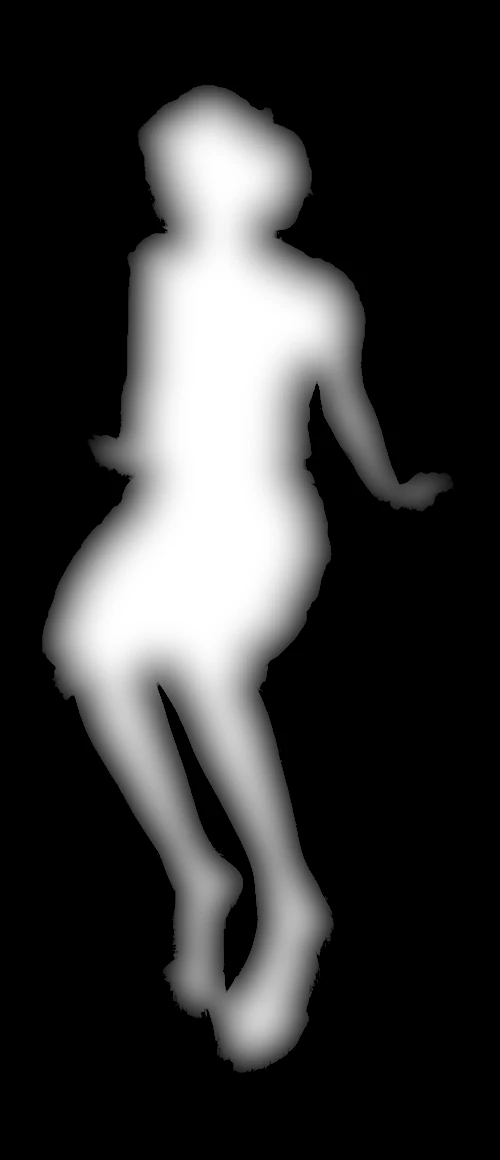
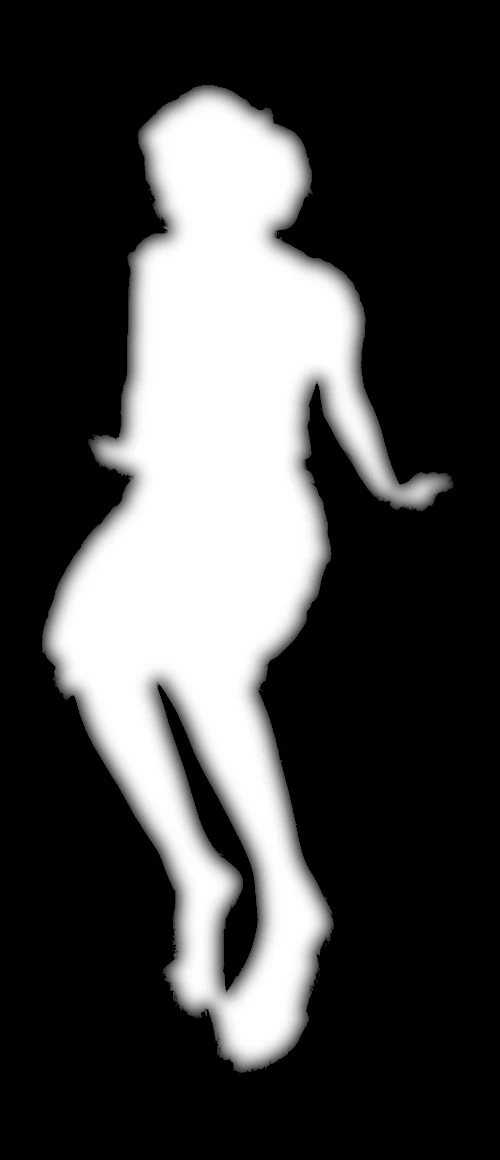
fix: the figurine is a level slab in its photo's own light
The photo's own sunlight and shadows already make the owner look solid.
The deep dome sank the face that lay near the head's outline, and the
half relighting streaked the smooth legs. The self-shadow blotted them,
and on a level top the gloss was only a grey veil.

- The figurine is now a 15-unit slab with a level top and an edge rounded
  over 4 units. It was a 30-unit dome. A thicker slab shows its side,
  stretched, and casts a heavy shadow.
- It keeps the photo's own colours: no warm tint and no grain.
- It is not relit, not shadowed on itself and not glossy. It still casts
  its shadow on the box, and its clear bag is kept, glints and all.
- FIGURINE.height follows the slab, so food rests on its real top. No
  cloth in the pile lies over the figurine, so the pile is unchanged.

Changed region(s): [[0.09, 0.0621, 0.9, 0.931]]

diff --git a/js/rigid/render.js b/js/rigid/render.js
@@ -19,15 +19,16 @@ import { heightfieldMesh, modelMatrix } from './heightfield.js';
 import { CLEARANCE } from './load.js';
 
 const ATTRIBUTES = ['aPos', 'aNormal', 'aUv'];
-// Each surface's finish: its gloss, and how far the scene's light reshapes its picture (`relight`: 0 the
-// picture's own light alone, 1 the scene's full shading). The figurine is the owner's photo, its sunlight
-// already in it: lit fully over again, its skin goes dark and greasy at the edges. Shaded halfway, its
-// smooth dome still rounds the arms and legs like a doll's (the owner's pick, 2026-11-11). Shadows cast
-// on it still fall on it.
+// Each surface's finish: its gloss, how far the scene's light reshapes its picture (`relight`: 0 the
+// picture's own light alone, 1 the scene's full shading) and whether the scene's shadows fall on it
+// (`shadowed`). The figurine is the owner's photo, a level slab: its sunlight and shadows are what make it
+// look solid, and the scene's light over them only dulls and streaks it, its own shadow only blots it, and
+// on its level top a gloss is no highlight, only a veil that greys the whole photo (the owner's pick,
+// 2026-11-12). It still casts its shadow on the box, and its bag still glints.
 const FINISH = {
-  figurine: { sheen: 0.08, power: 20, relight: 0.5 },
-  food: { sheen: 0.12, power: 24, relight: 1 },
-  wrap: { sheen: 0.9, power: 80, relight: 1 },
+  figurine: { sheen: 0, power: 20, relight: 0, shadowed: false },
+  food: { sheen: 0.12, power: 24, relight: 1, shadowed: true },
+  wrap: { sheen: 0.9, power: 80, relight: 1, shadowed: true },
 };
 const PX = 4; // pixels a unit in the bodies' pictures
 const DETAIL = 0.2; // share of the relief map's slope added on top of the heightfield's own shading
@@ -90,9 +91,11 @@ out vec4 outColor;
 ${RELIEF_NORMAL}`;
 
 // A painted solid: shading as far as uRelight lets the scene's light reshape the picture (the rest is
-// the even shade of a flat top), a gloss that follows the light, a crisp cut-out edge.
+// the even shade of a flat top), the scene's shadows where uShadowed lets them fall, a gloss that follows
+// the light, a crisp cut-out edge.
 const SOLID_FS = `${SURFACE_HEAD}
 uniform float uRelight;
+uniform float uShadowed;
 void main() {
   vec4 tex = texture(uTex, vUv); // premultiplied on upload
   float alpha = clamp((tex.a - 0.5) / max(fwidth(tex.a), 1e-4) + 0.5, 0.0, 1.0);
@@ -100,7 +103,7 @@ void main() {
   vec3 base = tex.rgb / max(tex.a, 1e-3);
   vec3 n = relief(normalize(vNormal));
   vec3 toEye = normalize(uEye - vPos);
-  float sun = sunlit(vShadow);
+  float sun = mix(1.0, sunlit(vShadow), uShadowed);
   float even = max(0.0, uLightDir.z) * 0.7 + 0.35; // a flat top's shade ('flat' is a GLSL keyword)
   float shade = mix(even, max(0.0, dot(n, uLightDir)) * 0.7 + 0.35, uRelight);
   float gloss = pow(max(0.0, dot(n, normalize(uLightDir + toEye))), uPower) * uSheen * sun;
@@ -165,7 +168,7 @@ void main() {
 
 /** A heightfield's buffers and its pictures on the GPU. */
 function createSurface(gl, {
-  mesh, image, relief, reliefTexel, sheen, power, relight, bump,
+  mesh, image, relief, reliefTexel, sheen, power, relight, shadowed, bump,
 }, anisotropy) {
   const vao = gl.createVertexArray();
   gl.bindVertexArray(vao);
@@ -184,6 +187,7 @@ function createSurface(gl, {
     sheen,
     power,
     relight,
+    shadowed,
     bump,
   };
 }
@@ -224,7 +228,7 @@ export function partsFor({ defs, images, reliefs, wraps, samplers }, resize) {
 
 /**
  * @param gl     the clothes layer's WebGL2 context
- * @param parts  partsFor(): each body's {mesh, footprint, image, relief, reliefTexel, bump, sheen, power, relight, wrap?}
+ * @param parts  partsFor(): each body's {mesh, footprint, image, relief, reliefTexel, bump, sheen, power, relight, shadowed, wrap?}
  */
 export function createRigidRenderer(gl, { parts }) {
   const anisotropy = gl.getExtension('EXT_texture_filter_anisotropic');
@@ -322,6 +326,7 @@ export function createRigidRenderer(gl, { parts }) {
       gl.uniform1f(uniforms.uSheen, surface.sheen);
       gl.uniform1f(uniforms.uPower, surface.power);
       if (uniforms.uRelight) gl.uniform1f(uniforms.uRelight, surface.relight); // the solids' shader only
+      if (uniforms.uShadowed) gl.uniform1f(uniforms.uShadowed, surface.shadowed ? 1 : 0);
       gl.uniform1f(uniforms.uBump, surface.bump);
       gl.uniform2fv(uniforms.uReliefTexel, surface.reliefTexel);
       gl.activeTexture(gl.TEXTURE2);

diff --git a/tests/unit/rigid-render.test.js b/tests/unit/rigid-render.test.js
@@ -17,10 +17,12 @@ function parts() {
   }, (image) => image);
 }
 
-test("the figurine is shaded halfway: rounder than its photo alone, not lit over again like the food", () => {
+test("the figurine shows its photo's own light: not lit over again, nor shadowed on itself, unlike the food", () => {
   const [figurine, food] = parts();
-  assert.ok(figurine.relight >= 0.4 && figurine.relight <= 0.6, `the scene relights the figurine's photo ${figurine.relight}`);
-  assert.ok(figurine.sheen < food.sheen, 'matte: less gloss than the food');
+  assert.equal(figurine.relight, 0, "the photo's sunlight is its shading");
+  assert.equal(figurine.shadowed, false, 'the photo already has its shadows');
   assert.equal(food.relight, 1);
+  assert.equal(food.shadowed, true);
+  assert.equal(figurine.sheen, 0, 'on its level top a gloss is no highlight, only a veil over the whole photo');
   assert.equal(figurine.wrap.sheen > figurine.sheen, true, 'its clear bag still glints');
 });

diff --git a/tests/unit/rigid-heightfield.test.js b/tests/unit/rigid-heightfield.test.js
@@ -48,7 +48,7 @@ test('a point on the picture is found on the body\'s top, where picking would hi
   const body = withPosition({ ...createBody(FIGURINE), rotate: 90 }, [100, 150, 6]);
   const relief = (u, v) => (u > 0.5 ? 1 : 0.5);
   const top = surfacePoint(body, relief, [0.75, 0.25]);
-  assert.deepEqual(top.map((c) => Math.round(c * 1000) / 1000), [172.5, 181.25, 36]);
+  assert.deepEqual(top.map((c) => Math.round(c * 1000) / 1000), [172.5, 181.25, 6 + FIGURINE.height]);
   const hit = pickBody({ origin: [top[0], top[1], 500], dir: [0, 0, -1] }, body, { alpha: () => 1, relief });
   assert.ok(Math.abs(hit.point[2] - top[2]) < 0.5 && Math.abs(hit.uv[0] - 0.75) < 1e-6 && Math.abs(hit.uv[1] - 0.25) < 1e-6);
 });

diff --git a/js/scene/geometry.js b/js/scene/geometry.js
@@ -43,7 +43,7 @@ export const BOOKS = Object.freeze([
  * round things; `keepIn` keeps a body inside the walls when it is dragged.
  */
 export const FIGURINE = Object.freeze({
-  id: 'figurine', label: 'figurine', footprint: [125, 290], height: 30, start: [68.5, 150], rotate: 0, inset: 0.04, keepIn: true,
+  id: 'figurine', label: 'figurine', footprint: [125, 290], height: 15, start: [68.5, 150], rotate: 0, inset: 0.04, keepIn: true,
 });
 export const FOOD = Object.freeze([
   Object.freeze({ id: 'sushi', label: 'sushi', footprint: [52, 68], height: 12, start: [170, 56], rotate: 0, inset: 0, keepIn: false }),

diff --git a/tests/unit/rigid-assets.test.js b/tests/unit/rigid-assets.test.js
@@ -20,7 +20,7 @@ test("the figurine's pictures are its footprint at 4 px a unit", async () => {
   for (const name of ['figurine', 'figurine-relief', 'wrap', 'wrap-relief']) {
     assert.deepEqual(webpSize(await readFile(new URL(`../../assets/figurine/${name}.webp`, import.meta.url))), FIGURINE.footprint.map((u) => u * 4));
   }
-  assert.equal(FIGURINE.height, 30, 'prepare_figurine.HEIGHT');
+  assert.equal(FIGURINE.height, 15, 'prepare_figurine.HEIGHT');
 });
 
 test('the figurine and food pictures together stay within their budget', async () => {

diff --git a/tests/e2e/solids.spec.js b/tests/e2e/solids.spec.js
@@ -18,7 +18,7 @@ test('the figurine and every food item are drawn and can be picked up', async ({
   }
 });
 
-test("the figurine is drawn mostly in its photo's own light: shaded halfway, matte, not lit over again", async ({ page }) => {
+test("the figurine is drawn in its photo's own light: not shaded over again, nor glossy", async ({ page }) => {
   await openSite(page, '?jump=overhead');
   await waitForState(page, 'overhead');
   await waitForSettled(page);

diff --git a/tools/prepare_figurine.py b/tools/prepare_figurine.py
@@ -7,9 +7,10 @@ u2net model's outline when it is given); on a busy one, such as a photo of the o
 grass, the model's outline pulled onto the photo's own edges, which take the subject's
 own colour. Phone photos are turned the right way up first. Stand its long side upright, size it to
 the figure the clothes were fitted to (FIGURE_LENGTH from head to sole) or
-smaller if the bag's margins need it, match it to the box's light, add the
-scene's grain and centre it on the figurine's footprint at PX pixels a unit.
-Then wrap it: a crinkled clear bag with crimped seals lying over it.
+smaller if the bag's margins need it and centre it on the figurine's footprint
+at PX pixels a unit, in the photo's own colours: its sunlight and shadows are
+what make it look solid. Raise it into a slab with a level top and a rounded
+edge, then wrap it: a crinkled clear bag with crimped seals lying over it.
 
 Writes figurine.webp, figurine-relief.webp (the WebGL heightfield's height,
 255 = HEIGHT), wrap.webp and wrap-relief.webp (255 = HEIGHT + CLEARANCE),
@@ -38,21 +39,19 @@ from solids.cutout import (  # noqa: E402
     unmix,
     without_specks,
 )
-from solids.finish import add_grain, fit_canvas, match_light  # noqa: E402
+from solids.finish import fit_canvas  # noqa: E402
 from solids.relief import relief  # noqa: E402
 from solids.wrap import bag  # noqa: E402
 
-ROOT = Path(__file__).resolve().parent.parent
-GRAIN = ROOT / "assets" / "textures" / "grain.png"
 SIZE = (125, 290)  # units: FIGURINE.footprint in js/scene/geometry.js
 PX = 4  # pixels a parcel unit
-HEIGHT = 30  # units: FIGURINE.height
+HEIGHT = 15  # units: FIGURINE.height (thicker, the slab's side shows, stretched, and its shadow is heavy)
 CLEARANCE = 2  # units the bag lies over the figure
 FIGURE_LENGTH = 248  # units from head to sole, as clothes/fit.py measures the figure
 MARGIN = (8, 16)  # units between the figure and the bag's sides, and its ends (with the seals)
-RELIEF_RADIUS = 12  # units: the figure's dome reaches full height this far in
-RELIEF_DETAIL = 0.0  # a smooth dome: a photo's own texture (skin, grass blades) would shade as grooves
-RELIEF_SMOOTH = 3  # units: the dome rounded so an arm or a leg is round, not ridged down its middle
+RELIEF_RADIUS = 4  # units: the edge rounds up to the level top this far in (a deeper dome sinks a face near the outline)
+RELIEF_DETAIL = 0.0  # a smooth top: a photo's own texture (skin, grass blades) would shade as grooves
+RELIEF_SMOOTH = 1.5  # units: the edge's rounding softened, so it is no ridge or crease
 PLAIN = 12.0  # a border whose colour varies more than this (std) is not plain: use u2net
 SHADES = (0.3, 1.1)  # the backdrop's grey from its contact shadows (this share of it) to where its light is brightest
 TOLERANCE = 14.0  # colour distance from those shades still counted as backdrop (a generated backdrop keeps within ~7)
@@ -155,7 +154,7 @@ def place(cut: np.ndarray) -> np.ndarray:
 
 
 def figure_level(alpha: np.ndarray, rgb: np.ndarray) -> np.ndarray:
-    """The figure's height map (uint8, 255 = HEIGHT): a smooth, rounded dome inflated from its outline."""
+    """The figure's height map (uint8, 255 = HEIGHT): a slab with a level top, its edge rounded over RELIEF_RADIUS."""
     return relief(alpha, rgb, radius_px=RELIEF_RADIUS * PX, detail=RELIEF_DETAIL, smooth_px=RELIEF_SMOOTH * PX)
 
 
@@ -171,14 +170,10 @@ def main(argv: list[str] | None = None) -> int:
     args.out.mkdir(parents=True, exist_ok=True)
 
     figure = place(cut_out(args.chosen, args.u2net, args.turn))
-    a = figure[..., 3] / 255
-    grain = np.asarray(Image.open(GRAIN).convert("RGBA"), float)
-    finished = add_grain(match_light(figure[..., :3], a), a, grain)
-    level = figure_level(a, finished)
+    level = figure_level(figure[..., 3] / 255, figure[..., :3])
     film, film_level = bag(figure.shape[1::-1], figure[..., 3], level, px=PX, figure_height=HEIGHT, clearance=CLEARANCE)
 
-    picture = np.concatenate([finished, figure[..., 3:4]], axis=-1)
-    Image.fromarray(np.round(picture).astype(np.uint8), "RGBA").save(args.out / "figurine.webp", "WEBP", quality=88, alpha_quality=100, method=6)
+    Image.fromarray(figure, "RGBA").save(args.out / "figurine.webp", "WEBP", quality=88, alpha_quality=100, method=6)
     Image.fromarray(level, "L").save(args.out / "figurine-relief.webp", "WEBP", quality=90, method=6)
     Image.fromarray(film, "RGBA").save(args.out / "wrap.webp", "WEBP", quality=88, alpha_quality=100, method=6)
     Image.fromarray(np.round(film_level * 255).astype(np.uint8), "L").save(args.out / "wrap-relief.webp", "WEBP", quality=90, method=6)

diff --git a/tools/tests/test_prepare_figurine.py b/tools/tests/test_prepare_figurine.py
@@ -10,10 +10,13 @@ import prepare_figurine as pf
 RED = (180.0, 40.0, 40.0)
 
 
-def figure_png(tmp_path):
+LILAC = (150.0, 90.0, 200.0)  # much blue: the box's warm tint would take some 14 levels of it
+
+
+def figure_png(tmp_path, colour=(180, 40, 40)):
     yy, xx = np.mgrid[0:400, 0:900]
     inside = ((xx - 450) / 400) ** 2 + ((yy - 200) / 120) ** 2 <= 1
-    rgb = np.where(inside[..., None], (180, 40, 40), (200, 200, 200)).astype(np.uint8)
+    rgb = np.where(inside[..., None], colour, (200, 200, 200)).astype(np.uint8)
     path = tmp_path / "chosen.png"
     Image.fromarray(rgb).save(path)
     return path
@@ -114,7 +117,17 @@ def test_a_large_photo_is_cut_at_a_working_size(tmp_path, monkeypatch):
     assert abs(cut.shape[0] - pf.WORK_LENGTH) <= 0.03 * pf.WORK_LENGTH, f"the figure is {cut.shape[0]} px long"
 
 
-def test_the_figure_s_height_is_a_smooth_dome_without_the_photo_s_texture():
+def test_the_figure_s_top_is_level_but_for_its_rounded_edge_so_a_face_near_the_outline_is_not_sunk():
+    yy, xx = np.mgrid[0:200, 0:200]
+    head = (np.hypot(xx - 100, yy - 100) < 60).astype(float)  # 15 units across its radius
+    level = pf.figure_level(head, np.full((200, 200, 3), 150.0)).astype(float)
+    row = level[100]
+    unit = pf.PX
+    assert row[40 + 6 * unit] >= 0.97 * level.max(), f"6 units in from the outline the top is at {row[40 + 6 * unit]:.0f} of {level.max():.0f}"
+    assert row[40 + unit] < 0.8 * level.max(), f"1 unit in it is already at {row[40 + unit]:.0f} of {level.max():.0f}: a cliff, not a rounded edge"
+
+
+def test_the_figure_s_height_is_smooth_without_the_photo_s_texture():
     a = FIGURE.astype(float)
     flat = np.full(FIGURE.shape + (3,), 150.0)
     striped = flat * (1 + 0.4 * (np.arange(FIGURE.shape[0]) // 4 % 2))[:, None, None]  # skin texture, grass blades
@@ -126,9 +139,18 @@ def made(tmp_path_factory):
     """The four pictures, made once for the module (encoding them takes seconds)."""
     tmp_path = tmp_path_factory.mktemp("figurine")
     out = tmp_path / "out"
-    assert pf.main([str(figure_png(tmp_path)), str(out)]) == 0
+    assert pf.main([str(figure_png(tmp_path, LILAC)), str(out)]) == 0
     load = lambda name: np.asarray(Image.open(out / name))  # noqa: E731
     return load("figurine.webp"), load("figurine-relief.webp"), load("wrap.webp"), load("wrap-relief.webp")
+
+
+def test_the_figure_keeps_its_photo_s_own_colours_without_tint_or_grain(made):
+    figure, *_ = made
+    inside = ndimage.binary_erosion(figure[..., 3] == 255, iterations=8)
+    colours = figure[..., :3][inside].astype(float)
+    off = np.abs(colours.mean(axis=0) - LILAC).max()
+    assert off < 3, f"the figure's lilac is {off:.1f} levels off the photo's: tinted"
+    assert colours.std(axis=0).max() < 0.3, f"the flat lilac varies by {colours.std(axis=0).max():.2f} levels: grain on it"
 
 
 def test_a_wide_figure_is_turned_upright_and_sized_to_the_figure_the_clothes_fit(made):

diff --git a/README.md b/README.md
@@ -110,10 +110,11 @@ whatever lies beneath: the floor, a book, the clothes, another piece. The
 figurine stays inside the box; the food may go anywhere, even out onto the
 flaps or the table.
 
-**The figurine.** It is your own photo, cut out and finished by a tool, the
-same way the food is: its outline is inflated into a smooth dome for the
-3D surface and shaded halfway by the scene's light (the photo's own sunlight
-does the rest).
+**The figurine.** It is your own photo, cut out by a tool and raised into a
+thin slab with a level top and a rounded edge. It keeps the photo's own
+colours and light: its sunlight and shadows are what make it look solid, so
+the scene neither shades it again nor lays a shadow or a gloss over it. It
+still casts its shadow on the box, and its clear bag still glints.
 
 1. Take or pick a photo of yourself, the whole of you in frame, seen from a
    little above (sitting or lying works best: you will lie in the box).
